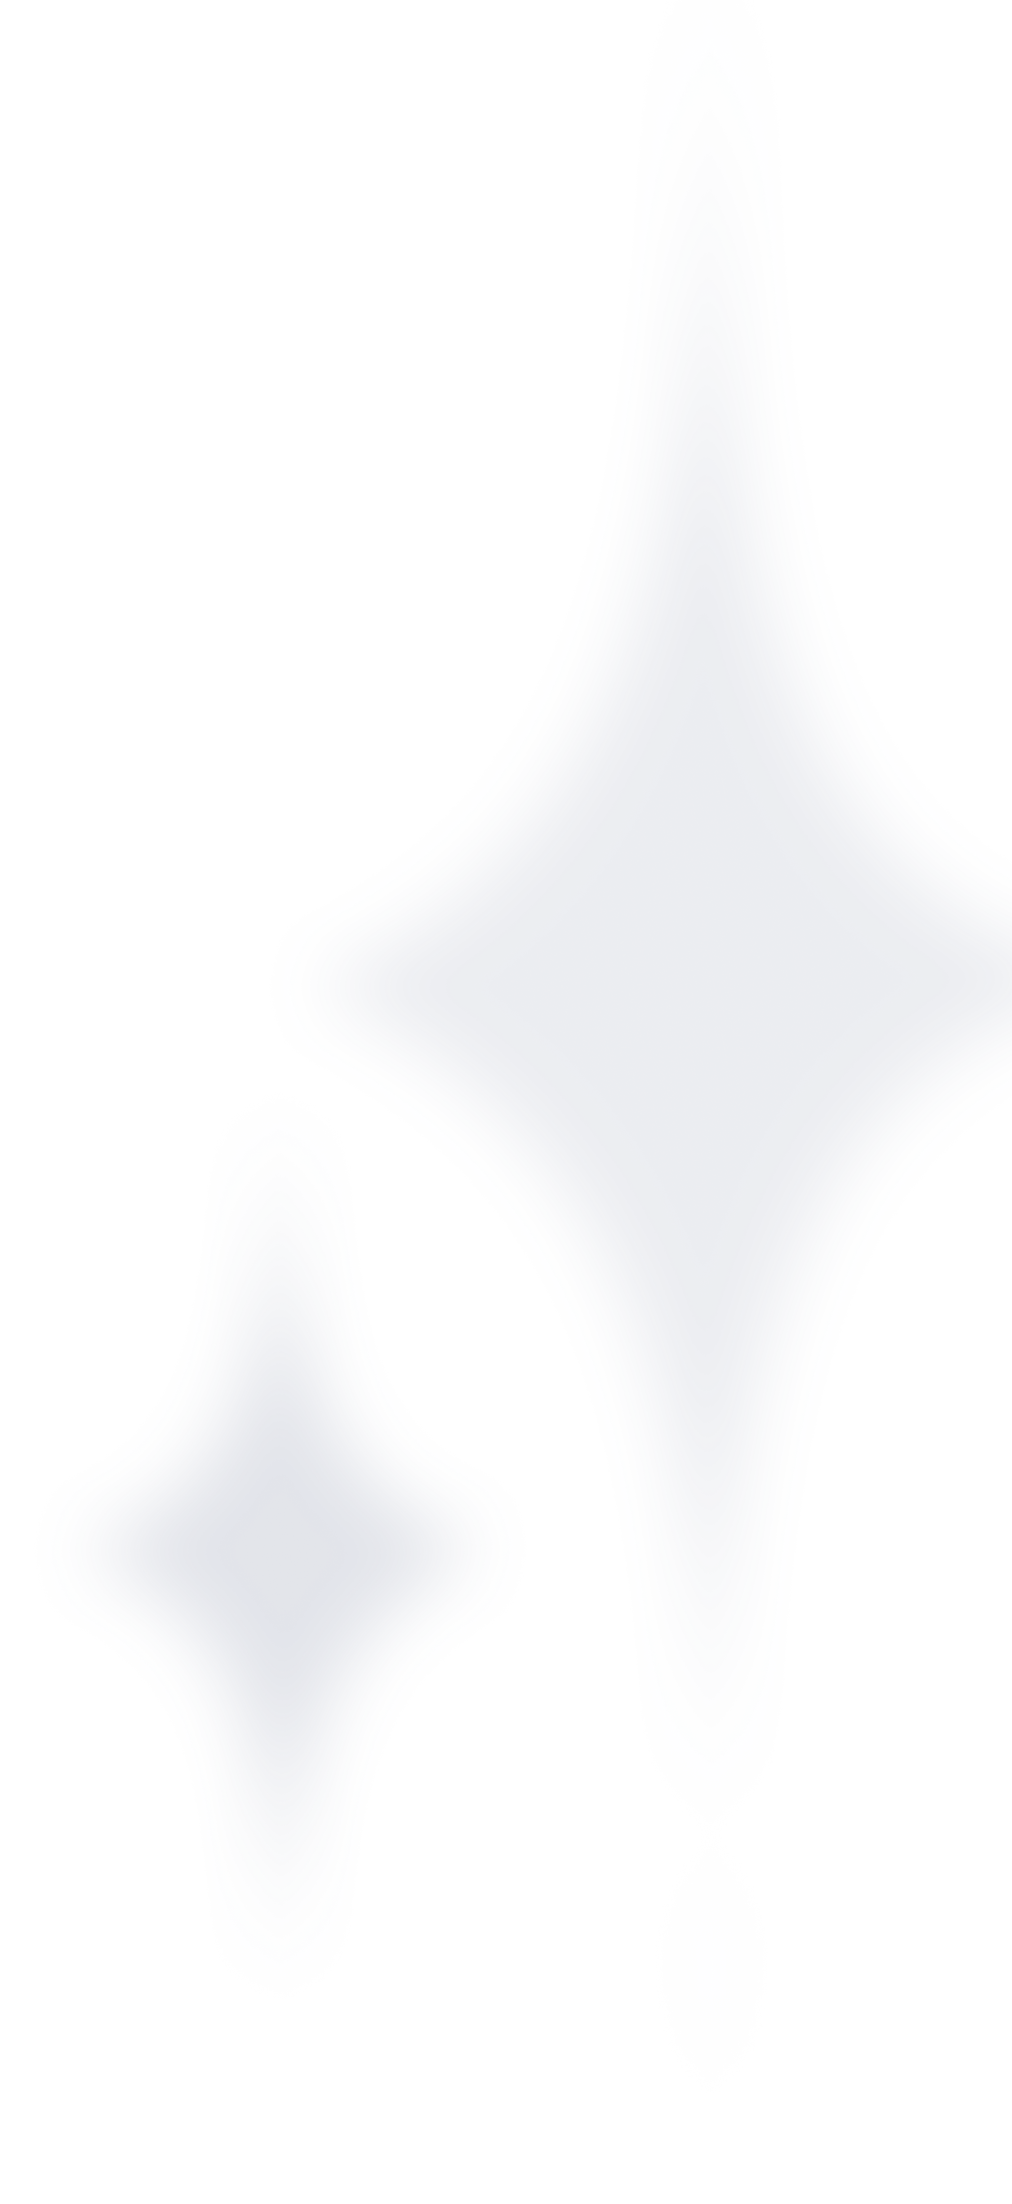
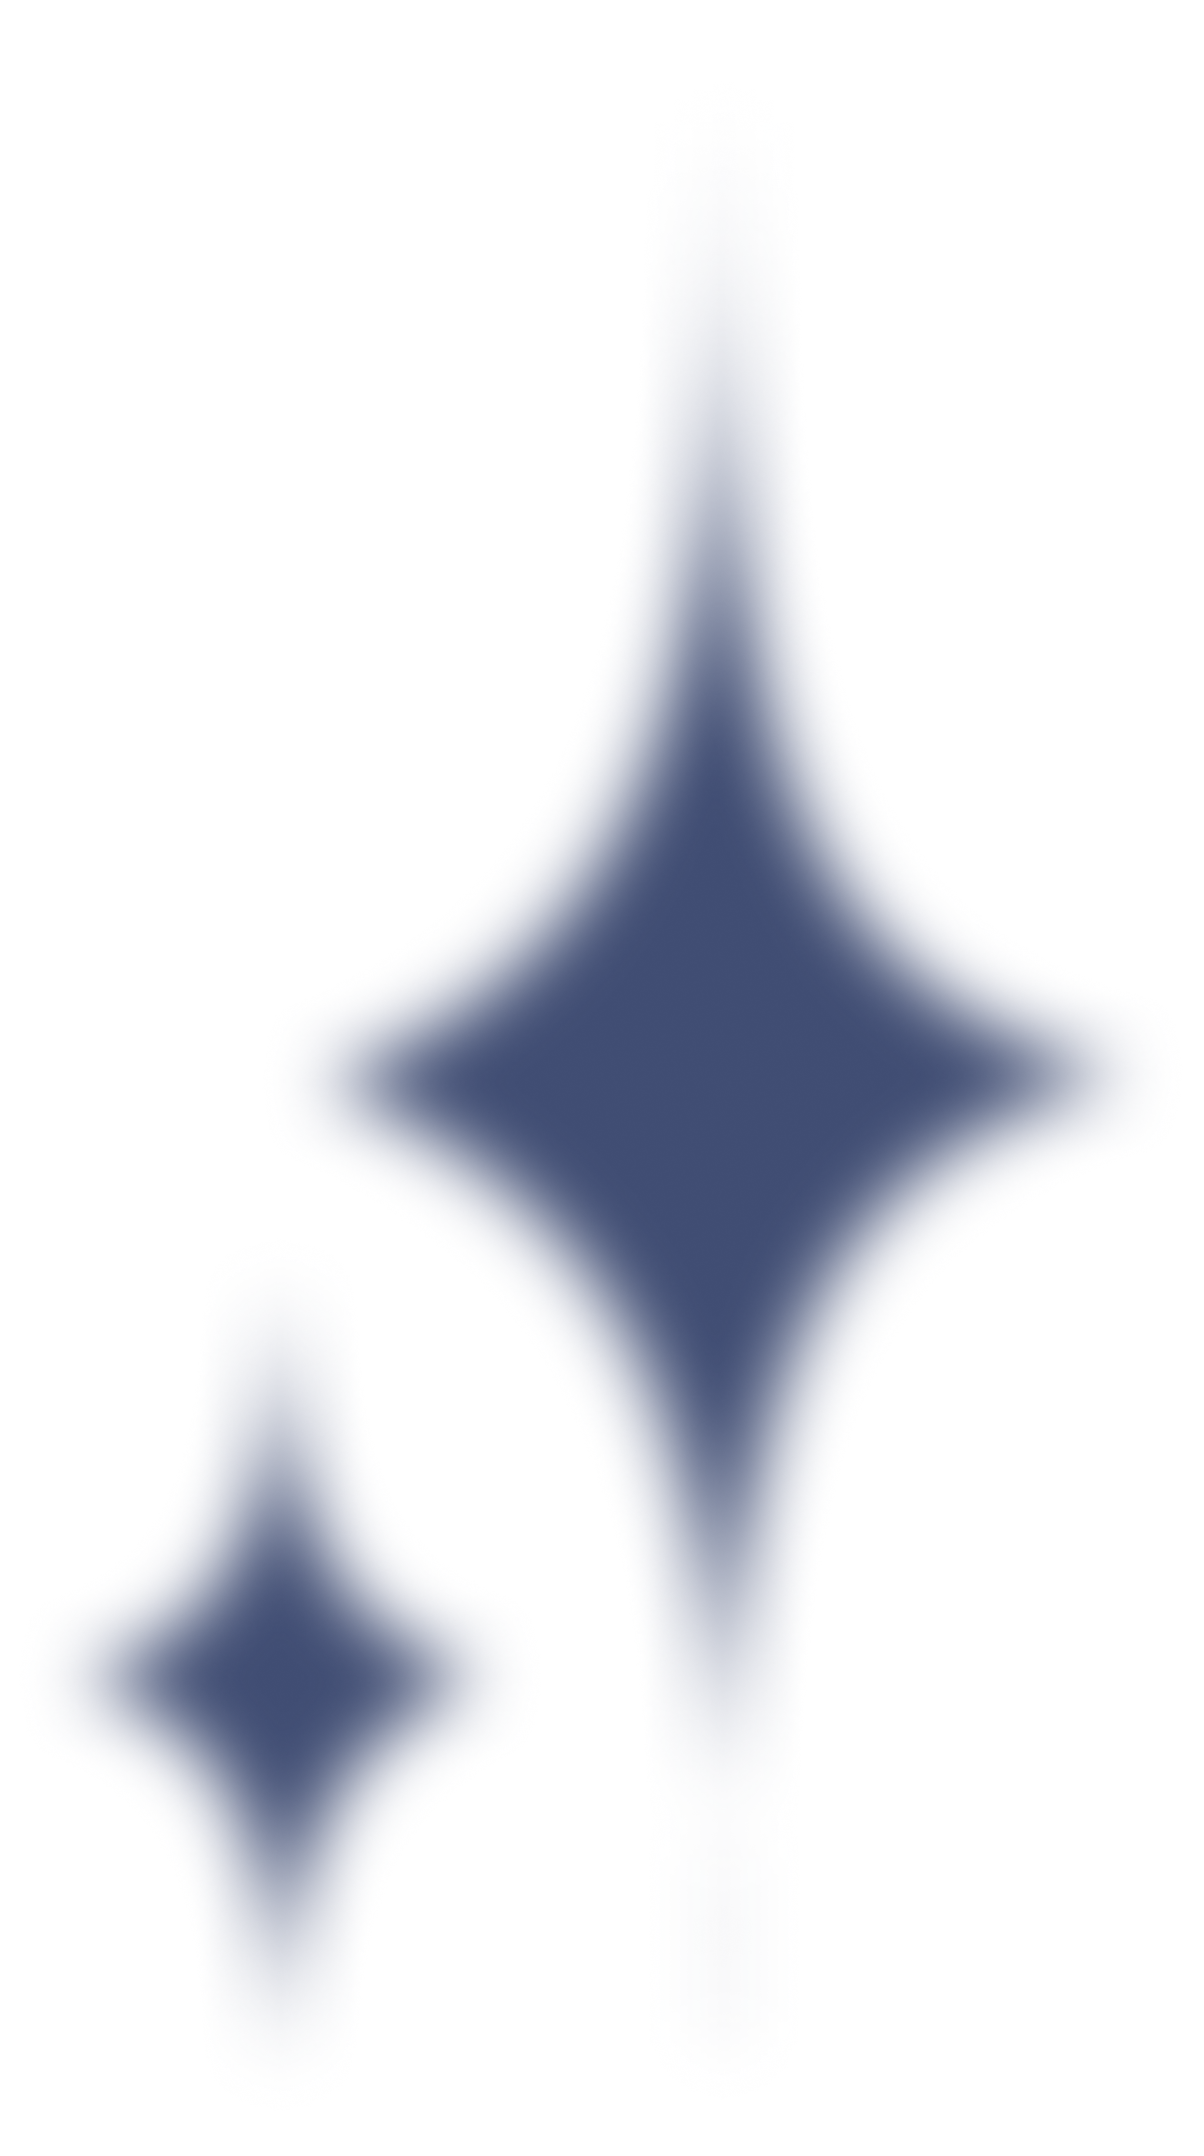
landing update

Changed region(s): [[0.2757, 0.1554, 0.919, 0.808], [0.0613, 0.6526, 0.3982, 0.9323]]

diff --git a/styles/homepage.css b/styles/homepage.css
@@ -1,63 +1,85 @@
 /*landing page*/
 .landing{
     width: 100vw;
-    height: 82vh;
-    top: 0px;
-
+    height: 100vh;
     position: relative;
+    background: radial-gradient(54.71% 70.03% at 32.97% 50%, #FFF 0%, #A4B6E9 100%);
     display: flex;
-    justify-content: center;
-    padding-top: 100px;
-    padding-bottom: 40px;
-    flex-direction: column;
     align-items: center;
-    
-    background: radial-gradient(53.38% 68.33% at 50% 50%, #FFF 0%, #A4B6E9 100%);
+}
+
+.landing-content{
+    padding-top: 50px;
+    position: relative;
+    justify-content: center;
+    padding-left: 200px;
+    padding-right: 200px;
 }
 
 .landing-text{
     display: flex;
     flex-direction: column;
     justify-content: center;
-    align-items: center;
-    position: absolute;
-    padding: 0 200px;
+    align-items: flex-start;
 }
 
 .intro-description{
-    text-align: center;
-    max-width: 450px;
+    text-align: left;
+    max-width: 500px;
+    margin-top: 10px;
+    line-height: 1.1;
+}
+
+.name-link{
+    color:black;
+    text-decoration-thickness:2px;
+    transition: 0.5s;
+    margin-left: 2px;
+    padding: 0 5px;
+    border-radius: 5px;;
+}
+.name-link:hover{
+    cursor:pointer;
+    background-color: #a0b2f2b9;
+    letter-spacing: 2px;
 }
 
 .view-works{
-    display: flex;
-    align-items: center;
-    justify-content: center;
     position: absolute;
-
     bottom: 40px;
-
-    opacity: 0.4;
-    font-size: 15px;
-    color: black;
-    text-decoration: none;
-
-    transition: 0.5s;
+    right: 200px;
+    transition: 0.7s ease;
+    opacity: 0.5;
 }
 
 .view-works:hover{
-    opacity: 1;
     cursor: pointer;
-    transform: scale(1.07);
-    color: black;
+    animation: bounceY 1.3s infinite ease-in-out;
+    opacity: 1;
+}
+
+@keyframes bounceY {
+    0%, 100% {
+      transform: translateY(0);
+    }
+    50% {
+      transform: translateY(-10px);
+    }
+  }
+  
+.view-works-icon{
+    width: 180px;
+    height: auto;
+    display: block;
 }
 
 .landing-star{
     width: 258px;
     height: 571px;
     position: absolute;
-    right: 0px;
-    top: -20px;
+    right: 30px;
+    top: -30px;
+    opacity: 15%;
 }
 
 /*all projects*/

diff --git a/index.html b/index.html
@@ -65,22 +65,24 @@
                   lastScrollTop = currentScroll <= 0 ? 0 : currentScroll;
                 });
                 </script> 
-        </header>
+        </header> 
 
         <div class="landing">
             <img class="landing-star" src="homepage-imgs/landing-stars.png">
-            <div class="landing-text">
-                <h3-reg class="h3-reg"> Hi there,</h3-reg>
-                <homepage-kelly-la>I'm Kelly</homepage-kelly-la>
-                <h3-reg class="intro-description">a ux designers from San Francisco, CA
-                    creating experiences that make life simpler.</h3-reg>
-            </div>
-            <a class="view-works" href="index.html#works">
-                <p>View my works</p>
-                <div class="icon">
-                    <img class="icon-container" src="icon/chevron-down.svg">
+            <div class="landing-content">
+                <div class="landing-text">
+                    <h3 style="font-weight: 400; ">Hello, I'm
+                        <a href="about.html" class="name-link">
+                        Kelly La</a>.</h3>
+                    <homepage-ux>ux designer</homepage-ux>
+                    <h2 class="intro-description" style="font-weight: 300;">with a passion for creating useful and engaging experiences.</h2>
                 </div>
-            </a>
+            </div>
+            <div class="view-works">
+                <a href="index.html#works">
+                    <img class="view-works-icon" src="homepage-imgs/view-works-circle.svg">
+                </a>
+            </div>
         </div>
         <div class="all-projects" id="works">
             <!-- Seven Seas Roasting -->

diff --git a/styles/general.css b/styles/general.css
@@ -88,12 +88,12 @@ body{
         display: flex;
     }
 
-    homepage-kelly-la{
+    homepage-ux{
         font-family: "Playfair Display", 'Times New Roman', Times, serif;
-        font-size: 85px;
+        font-size: 60px;
         font-weight: 500;
-        letter-spacing: 10px;
+        letter-spacing: 25px;
         align-items: center;
         justify-content: center;
-        text-align: center;
+        text-align: left;
     }

diff --git a/styles/header.css b/styles/header.css
@@ -8,7 +8,7 @@ header{
     justify-content: space-between;
     align-items: center;
     padding: 0px 200px;
-    height: 15vh;
+    height: 130px;
 
     position: fixed;
     top: 0;
@@ -17,7 +17,7 @@ header{
     z-index: 100;
 
     border-bottom: 1px solid rgba(0, 0, 0, 0.50);
-    background: var(--off-white, #FAFAFA);
+    background: var(--off-white, #fafafa);
 
     transition: top 0.4s;
 }
